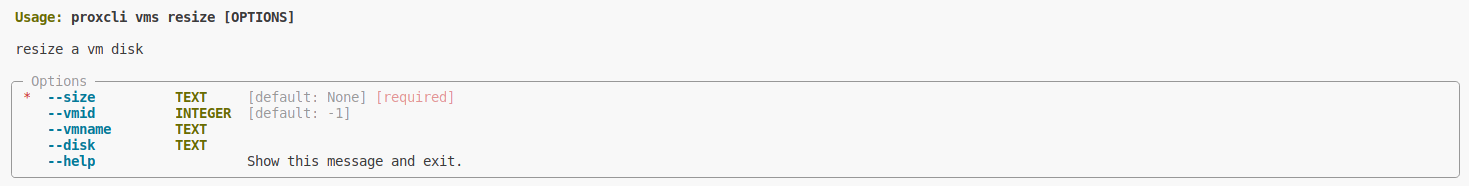
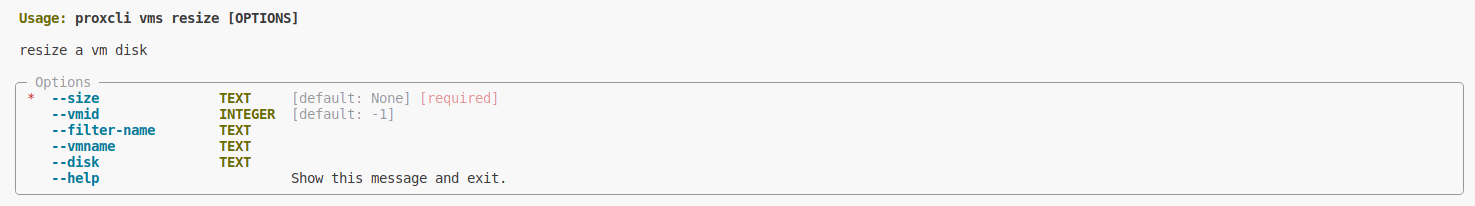
update documentation

diff --git a/content/commands/virtual_machines/resize/_index.md b/content/commands/virtual_machines/resize/_index.md
@@ -16,8 +16,13 @@ weight: 4
 |---|---|---|
 |vmid|the virtual machine id from which you want to resize the disk|string|
 |vmname|the virtual machine name from which you want to resize the disk |string|
+|filter-name|regex selector applied on virtual machines names you want to resize the disk|string|
 |disk|the disk name in virtual machine config (usualy the one associated with bootdisk)|string|
 |size|The desired size of the disk (Ex: 50G)|string|
+
+{{% notice style="info" %}}
+vmid, vmname and filter-name are mutualy exclusive
+{{% /notice %}}
 
 ## Examples
 

diff --git a/content/commands/virtual_machines/_index.md b/content/commands/virtual_machines/_index.md
@@ -6,4 +6,4 @@ slug = "virtual-machines"
 weight = 2
 +++
 
-![](/images/proxcli_vms_help.png)
+![](/images/proxcli_vms_help.png)!
